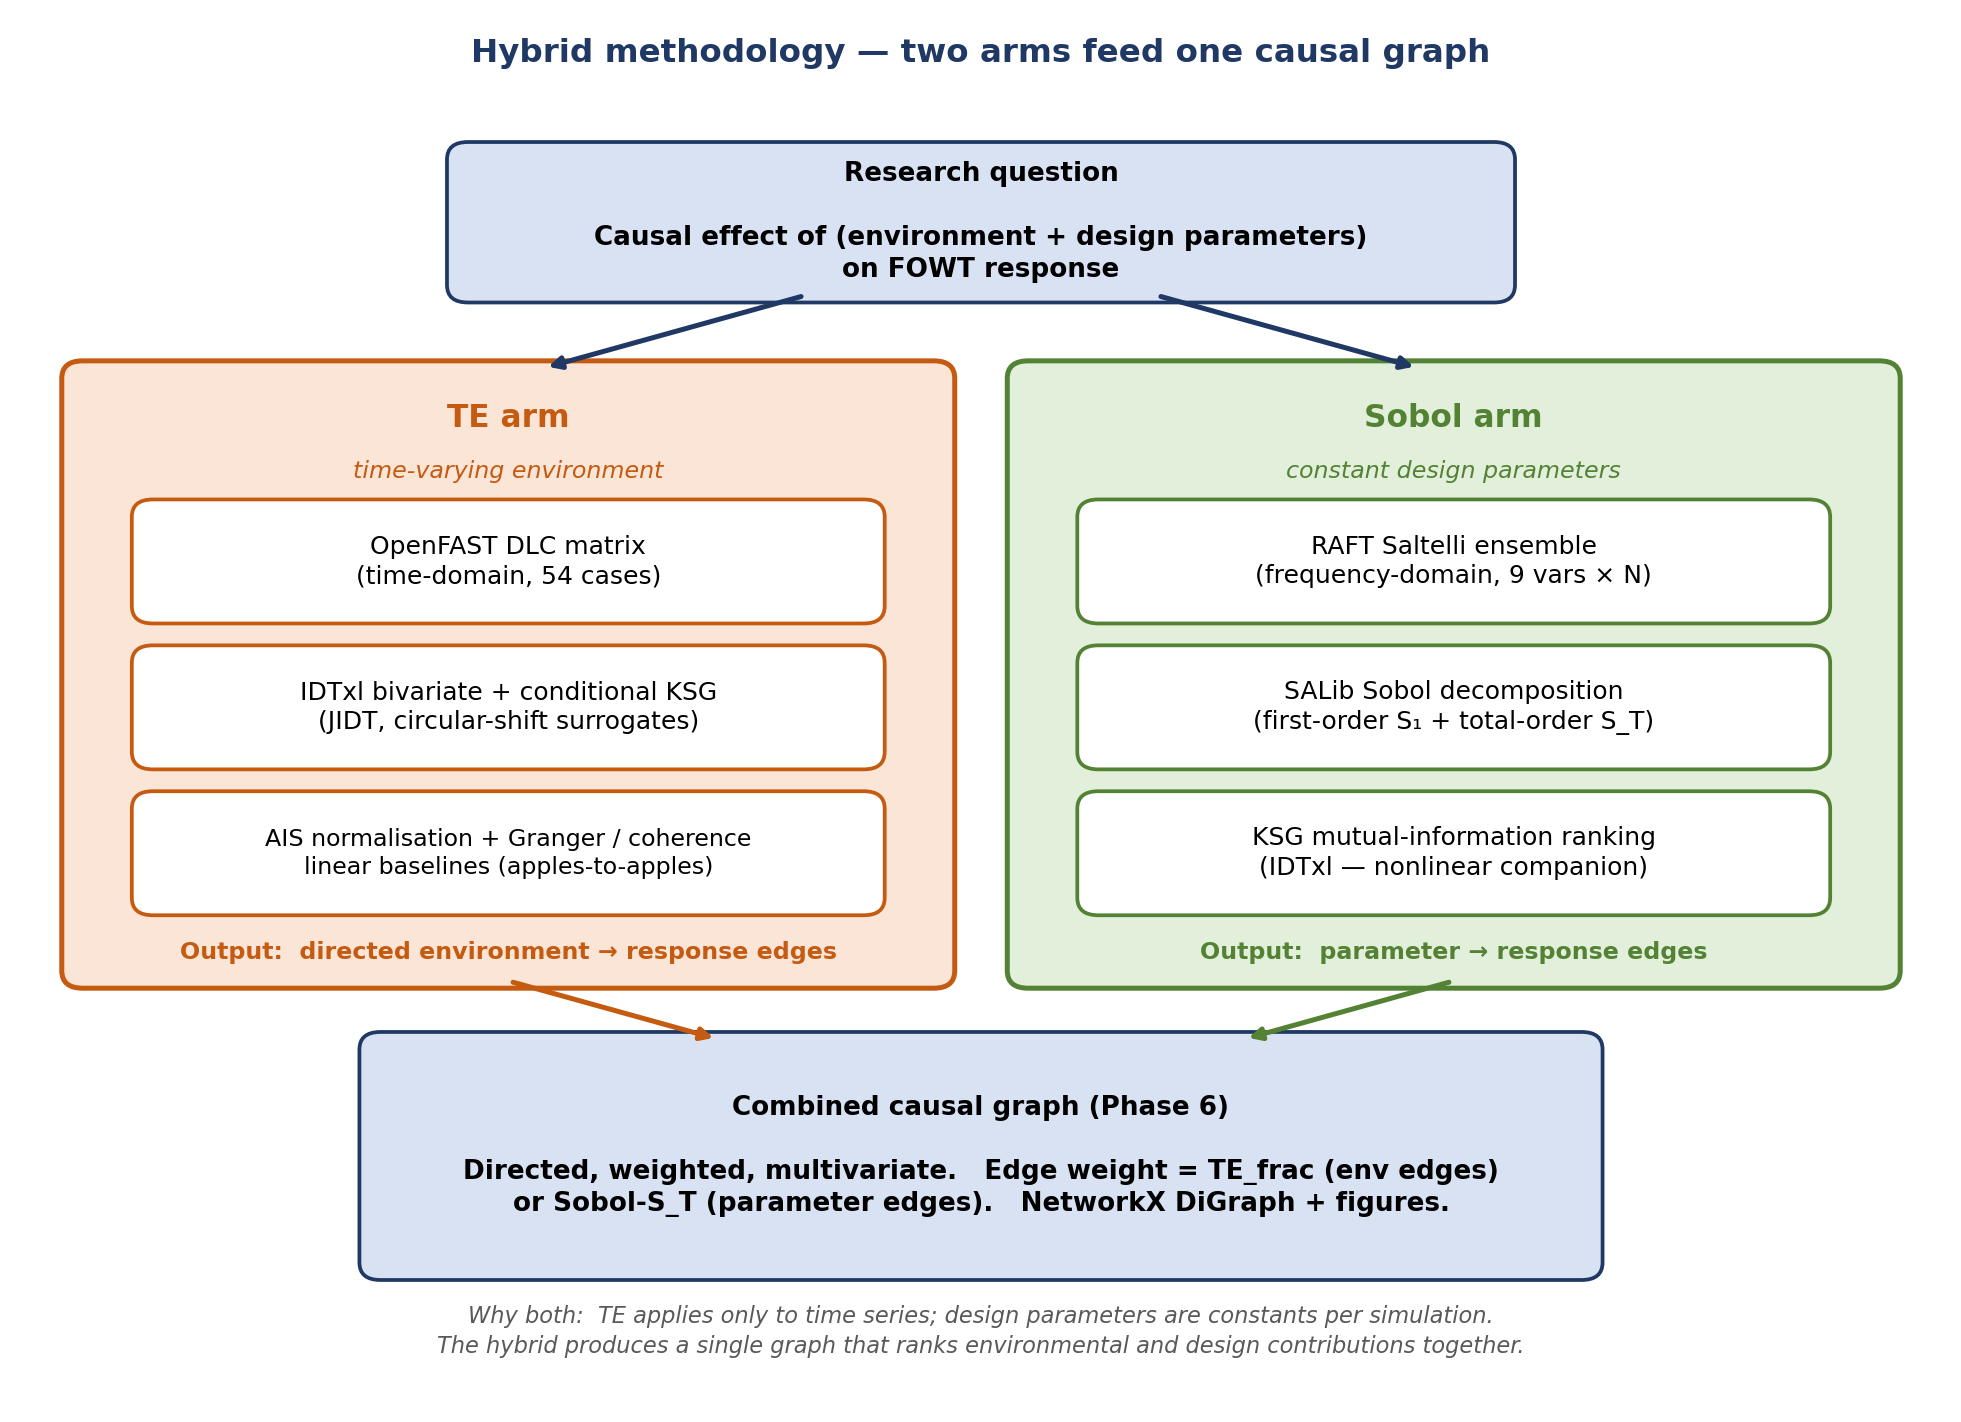
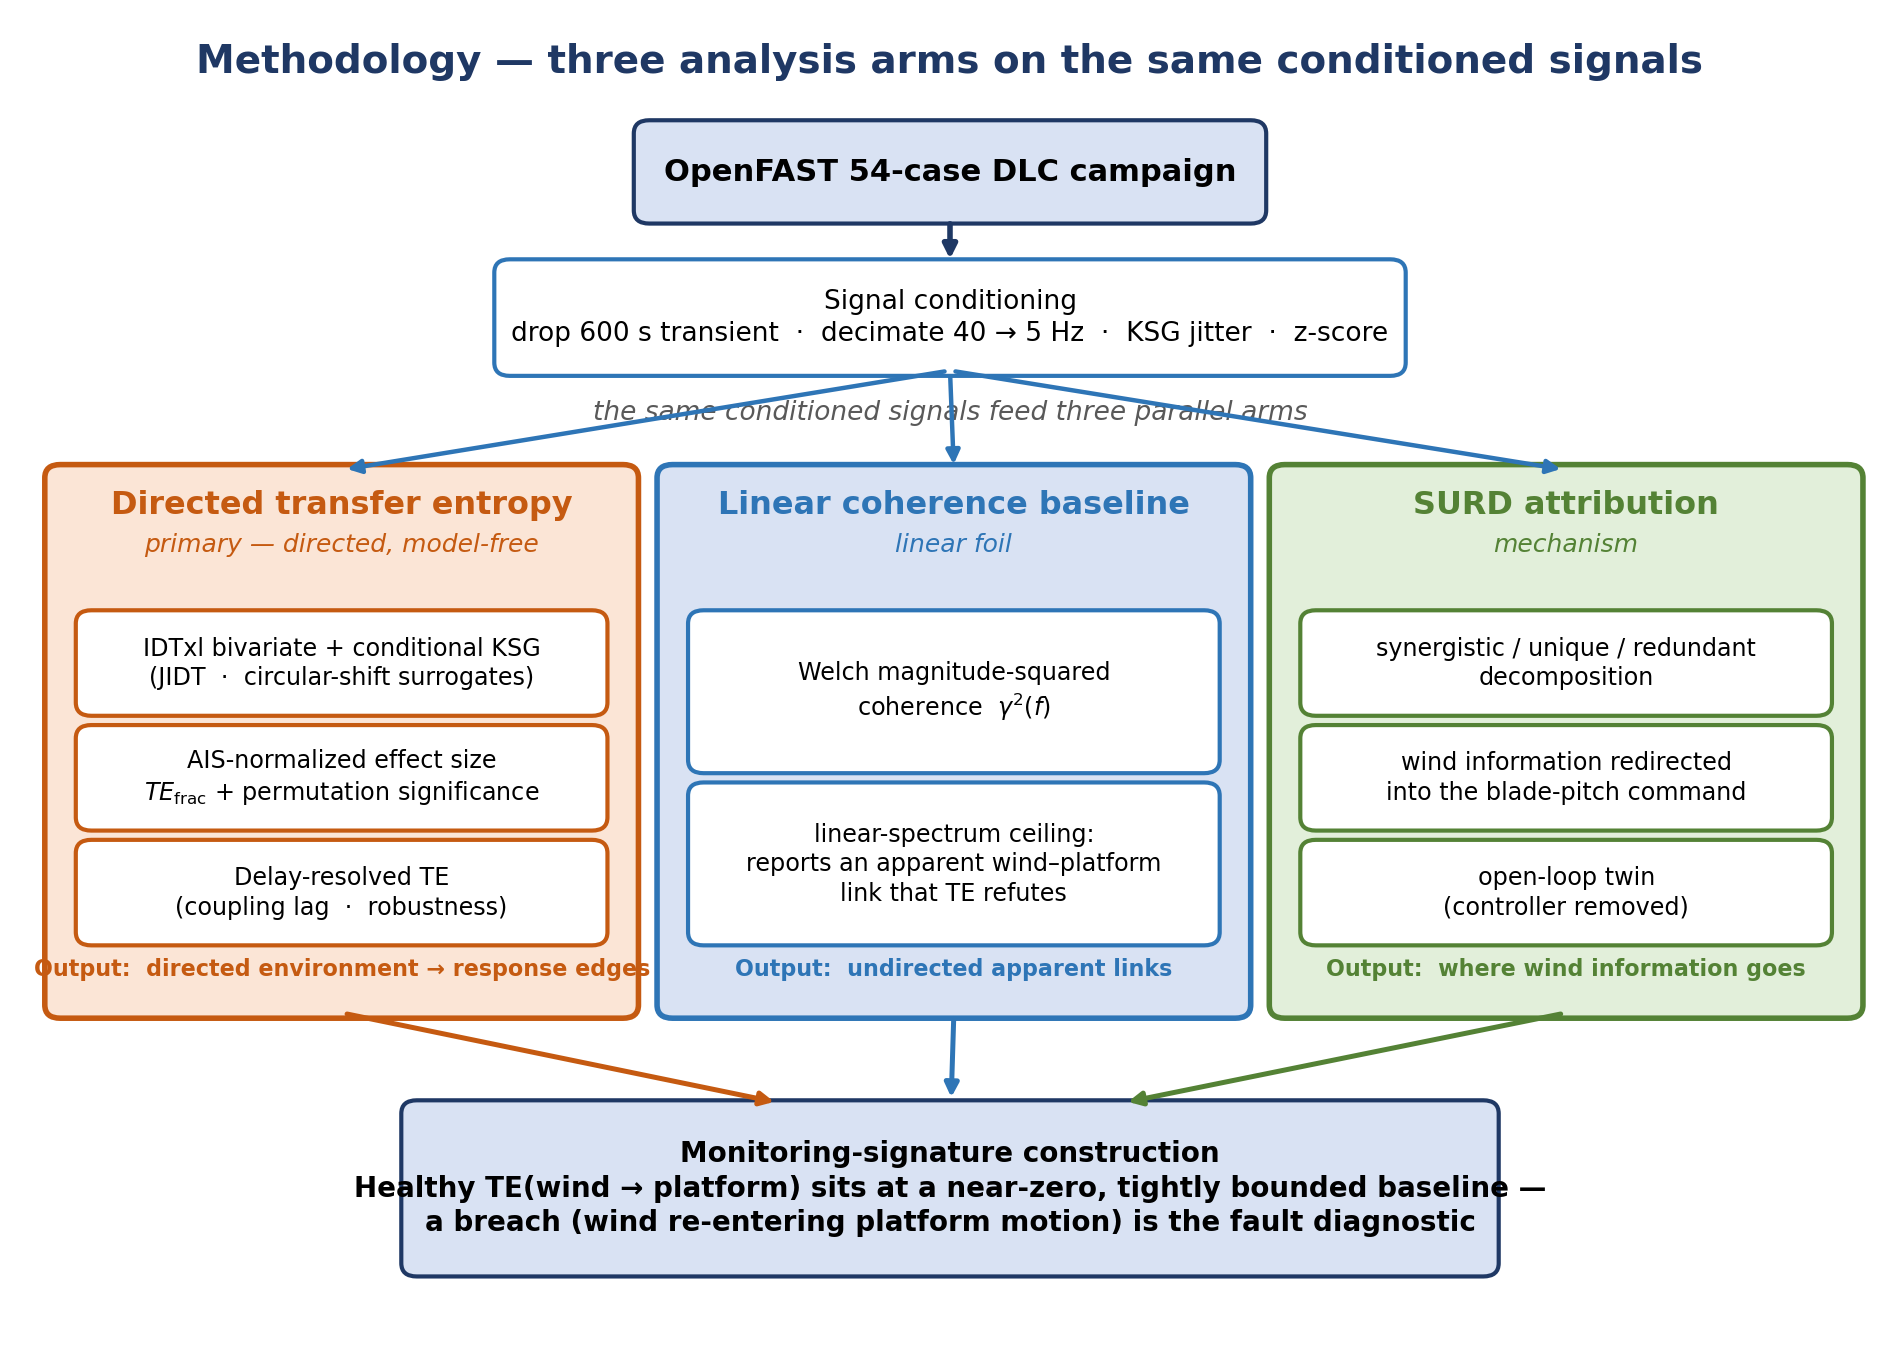
figures: rebuild Figure 1 to match the paper (remove stale Sobol arm)
The old fig1-methodology-arms.png depicted the broader original project's
two-arm "TE arm + Sobol arm -> combined causal graph (Phase 6)" hybrid,
including a RAFT Saltelli design-parameter ensemble that this paper does not
perform (Sobol appears only as a critiqued undirected foil in 1.2). The
caption was already correct; only the image was stale.

New dedicated generator reports/figs/_make_fig1_pipeline.py renders a
schematic matching the caption: OpenFAST 54-case campaign -> signal
conditioning -> three parallel arms (directed transfer entropy [primary],
linear coherence baseline [foil], SURD attribution [mechanism]) ->
monitoring-signature construction. Added a "SUPERSEDED - DO NOT RUN" banner
to the old _make_figures.py so it can't clobber the good fig1/fig2.

Figures 2-3 audited: Figure 2 (case-grid) matches its caption and is fine.
Figure 3 (fig3-te-network) has a caption/image mismatch - it shows only the
wave driver because the generator's >50%-of-cases significance filter drops
every wind edge, erasing the firewall; fix deferred pending a design choice.

docx regenerated with the corrected Figure 1. Session records updated.

diff --git a/reports/figs/_make_fig1_pipeline.py b/reports/figs/_make_fig1_pipeline.py
@@ -1,0 +1,115 @@
+# -*- coding: utf-8 -*-
+"""Generate Figure 1 — the paper's methodology overview.
+
+Replaces the stale `fig1-methodology-arms.png` (which depicted a two-arm
+"TE arm + Sobol arm -> combined causal graph" hybrid from the broader original
+project; this paper performs no Sobol/RAFT design-parameter analysis). This
+figure matches the manuscript caption: three analysis arms — directed transfer
+entropy, a linear coherence baseline, and SURD attribution — operate on the
+same conditioned OpenFAST signals and feed the monitoring-signature construction.
+
+Schematic only (no data). Writes reports/figs/fig1-methodology-arms.png.
+"""
+from pathlib import Path
+import matplotlib.pyplot as plt
+from matplotlib.patches import FancyBboxPatch
+
+OUT = Path(__file__).resolve().parent
+
+BLUE_DARK="#1F3864"; BLUE_MID="#2E75B6"; BLUE_LIGHT="#D9E2F3"
+ORANGE="#C55A11"; ORANGE_LIGHT="#FBE5D6"
+GREEN="#548235"; GREEN_LIGHT="#E2EFDA"
+GRAY="#595959"
+
+
+def box(ax, xy, w, h, text, fc, ec, fontsize=10, fontweight="normal",
+        textcolor="black", lw=1.5):
+    x, y = xy
+    ax.add_patch(FancyBboxPatch((x, y), w, h,
+        boxstyle="round,pad=0.04,rounding_size=0.10",
+        facecolor=fc, edgecolor=ec, linewidth=lw))
+    if text:
+        ax.text(x + w/2, y + h/2, text, ha="center", va="center",
+                fontsize=fontsize, fontweight=fontweight, color=textcolor,
+                linespacing=1.3)
+
+
+def arrow(ax, start, end, color=GRAY, lw=1.8):
+    ax.annotate("", xy=end, xytext=start,
+                arrowprops=dict(arrowstyle="-|>", color=color, lw=lw,
+                                shrinkA=2, shrinkB=2))
+
+
+def make_fig1():
+    fig, ax = plt.subplots(figsize=(12, 8.6))
+    ax.set_xlim(0, 12); ax.set_ylim(0, 10); ax.axis("off")
+
+    ax.text(6.0, 9.6, "Methodology — three analysis arms on the same conditioned signals",
+            ha="center", fontsize=14, fontweight="bold", color=BLUE_DARK)
+
+    # Input + conditioning
+    box(ax, (4.0, 8.5), 4.0, 0.7, "OpenFAST 54-case DLC campaign",
+        fc=BLUE_LIGHT, ec=BLUE_DARK, fontsize=11, fontweight="bold")
+    box(ax, (3.1, 7.35), 5.8, 0.8,
+        "Signal conditioning\ndrop 600 s transient  ·  decimate 40 → 5 Hz  ·  KSG jitter  ·  z-score",
+        fc="white", ec=BLUE_MID, fontsize=9.5)
+    arrow(ax, (6.0, 8.5), (6.0, 8.15), color=BLUE_DARK, lw=2.0)
+    ax.text(6.0, 6.98, "the same conditioned signals feed three parallel arms",
+            ha="center", fontsize=9.5, style="italic", color=GRAY)
+
+    # Three arm panels
+    panels = [
+        dict(x=0.2, fc=ORANGE_LIGHT, ec=ORANGE, title="Directed transfer entropy",
+             sub="primary — directed, model-free",
+             boxes=["IDTxl bivariate + conditional KSG\n(JIDT  ·  circular-shift surrogates)",
+                    "AIS-normalized effect size\n$TE_{\\mathrm{frac}}$ + permutation significance",
+                    "Delay-resolved TE\n(coupling lag  ·  robustness)"],
+             out="directed environment → response edges"),
+        dict(x=4.15, fc=BLUE_LIGHT, ec=BLUE_MID, title="Linear coherence baseline",
+             sub="linear foil",
+             boxes=["Welch magnitude-squared\ncoherence  $\\gamma^2(f)$",
+                    "linear-spectrum ceiling:\nreports an apparent wind–platform\nlink that TE refutes"],
+             out="undirected apparent links"),
+        dict(x=8.1, fc=GREEN_LIGHT, ec=GREEN, title="SURD attribution",
+             sub="mechanism",
+             boxes=["synergistic / unique / redundant\ndecomposition",
+                    "wind information redirected\ninto the blade-pitch command",
+                    "open-loop twin\n(controller removed)"],
+             out="where wind information goes"),
+    ]
+    pw, ptop, pbot = 3.75, 6.6, 2.5
+    for p in panels:
+        x = p["x"]; cx = x + pw/2
+        box(ax, (x, pbot), pw, ptop-pbot, "", fc=p["fc"], ec=p["ec"], lw=2)
+        ax.text(cx, ptop-0.33, p["title"], ha="center", fontsize=11.5,
+                fontweight="bold", color=p["ec"])
+        ax.text(cx, ptop-0.62, p["sub"], ha="center", fontsize=9,
+                style="italic", color=p["ec"])
+        arrow(ax, (6.0, 7.35), (cx, ptop), color=BLUE_MID, lw=1.6)
+        n = len(p["boxes"])
+        # stack sub-boxes between y=5.5 and y=3.05
+        top, bottom = 5.5, 3.05
+        bh = (top - bottom - 0.15*(n-1)) / n
+        for i, t in enumerate(p["boxes"]):
+            by = top - bh - i*(bh+0.15)
+            box(ax, (x+0.2, by), pw-0.4, bh, t, fc="white", ec=p["ec"],
+                fontsize=8.6)
+        ax.text(cx, 2.78, "Output:  " + p["out"], ha="center", fontsize=8.0,
+                fontweight="bold", color=p["ec"])
+        arrow(ax, (cx, pbot), (6.0 + (cx-6.0)*0.28, 1.82), color=p["ec"], lw=1.8)
+
+    # Monitoring signature (convergence)
+    box(ax, (2.5, 0.55), 7.0, 1.25,
+        "Monitoring-signature construction\n"
+        "Healthy TE(wind → platform) sits at a near-zero, tightly bounded baseline —\n"
+        "a breach (wind re-entering platform motion) is the fault diagnostic",
+        fc=BLUE_LIGHT, ec=BLUE_DARK, fontsize=10, fontweight="bold")
+
+    out = OUT / "fig1-methodology-arms.png"
+    fig.savefig(out, dpi=200, bbox_inches="tight", facecolor="white")
+    plt.close(fig)
+    print(f"wrote {out}")
+
+
+if __name__ == "__main__":
+    make_fig1()

diff --git a/reports/figs/_make_figures.py b/reports/figs/_make_figures.py
@@ -1,4 +1,14 @@
-"""Generate the three figures for the technical report (v2 — improved text layout).
+"""[SUPERSEDED — DO NOT RUN for the te-firewall paper.]
+
+WARNING: this script is a leftover from the *broader original project* (the
+two-arm "TE arm + Sobol arm -> combined causal graph" hybrid). Its make_fig1()
+draws a Sobol arm the paper does not use, and its make_fig2()/make_fig3() are
+NOT the images the manuscript embeds. Running it will OVERWRITE the current,
+correct fig1-methodology-arms.png (see reports/figs/_make_fig1_pipeline.py) and
+fig2-dlc-matrix.png (the case-grid) with stale versions. Kept only for archival
+reference. For the paper's figures use the dedicated per-figure scripts.
+
+Generate the three figures for the technical report (v2 — improved text layout).
 
 Produces:
   reports/figs/fig1-methodology-arms.png
@@ -148,7 +158,7 @@ def make_fig2():
 
     # Title
     ax.text(6.5, 8.0,
-            "Phase 2 Design Load Case matrix",
+            "Design Load Case matrix",
             ha="center", fontsize=13.5, fontweight="bold", color=BLUE_DARK)
     ax.text(6.5, 7.6,
             "54 OpenFAST cases × 1 hour simulated time each = 14 GB raw .outb",

diff --git a/pages/log.md b/pages/log.md
@@ -1939,3 +1939,36 @@ the rendered text. The manuscript is now consistently US-spelled. Committed.
 *Judgment note:* `analogue → analog` in "the structural-monitoring analog of control-loop performance
 monitoring" — US usage is split (many US authors keep "analogue" for the "counterpart" sense, reserving
 "analog" for signals); converted per the US directive but trivially reversible if the author prefers.
+
+## [2026-08-09] figures | Figure 1 rebuilt (three-arm pipeline); Figures 2–3 audited
+
+Author flagged that Figure 1 might show a "Sobol arm" absent from the results. Confirmed: the old
+`fig1-methodology-arms.png` (from the superseded `_make_figures.py`) depicted the **broader original
+project** — a "TE arm + **Sobol arm** → combined causal graph (Phase 6)" hybrid with a RAFT Saltelli
+9-variable design-parameter ensemble. **None of that is in this paper** (Sobol appears only as a critiqued
+undirected foil in §1.2). The figure *caption* was already correct; only the image was stale.
+
+**Figure 1 — rebuilt.** New dedicated generator `reports/figs/_make_fig1_pipeline.py` produces a schematic
+matching the caption: OpenFAST 54-case campaign → signal conditioning → three parallel arms (① directed
+transfer entropy [primary]; ② linear coherence baseline [foil]; ③ SURD attribution [mechanism]) →
+monitoring-signature construction. US spelling, palette consistent with Figs 2–3. Rendered at 200 dpi;
+visually verified. The stale `_make_figures.py` got a "SUPERSEDED — DO NOT RUN" banner (running it would
+clobber the good fig1 and the fig2 case-grid).
+
+**Figure 2 — audited, OK.** The on-disk `fig2-dlc-matrix.png` is the clean case-grid (4 speeds × 6 seeds;
+dlca/dlcb/dlc16), which matches its caption (54 = 48 + 6). It is NOT the stale box-diagram that
+`_make_figures.py::make_fig2()` would draw (that one carried H1/H2/H3 hypothesis labels and a Jeon-2025
+reference not cited here). Only nitpick: the figure's title still reads "analysed"/"wave-realisation"
+(British) after the manuscript's US-spelling conversion.
+
+**Figure 3 — audited, DEFECT found (fix pending author decision).** `fig3-te-network.png` shows only the
+**wave** driver fanning to 7 channels, edge weights in **TE_frac %**. But its caption promises a directed
+network where "wave (blue) … wind (red) reaches blade and tower channels but not platform rigid-body
+motion — the firewall," with weights "in nats." Root cause: the generator (`_make_fig3_te_network.py`,
+`build_graph`) keeps only edges significant in **>50% of cases**; from `te_table.parquet`, **no** Wind1VelX
+edge clears 50% (strongest: →RootMxc1 39%, →TwrBsMyt 28%, →RootMyc1 17%; platform edges at the chance
+floor, PtfmPitch 3.7%), so the wind node — and the firewall itself — is filtered out. The figure therefore
+omits the paper's headline finding and contradicts its caption (and the caption's "nats" ≠ the shown %).
+Options put to the author for the fix (data is available locally). Not yet changed.
+
+docx regenerated with the corrected Figure 1 (9 media). Figure 1 committed; Figure 3 fix deferred.

diff --git a/SYNTHESIS.md b/SYNTHESIS.md
@@ -28,6 +28,20 @@ each new Claude session was forgetting what the last one discussed.
 
 ## §0 Current state — read this first (rewritten 2026-08-09)
 
+- **Latest (2026-08-09, session 12): Figure 1 rebuilt to match the paper; Figures 2–3 audited.** Author
+  flagged a possible "Sobol arm" in Figure 1 — confirmed stale: the old `fig1-methodology-arms.png` (from
+  the superseded `reports/figs/_make_figures.py`) drew the broader original project's "TE arm + Sobol arm →
+  Phase-6 combined causal graph" hybrid, which this paper does not do (Sobol is only a critiqued foil in
+  §1.2). **Rebuilt** via new `reports/figs/_make_fig1_pipeline.py`: 3-arm schematic (directed TE [primary] ·
+  linear coherence [foil] · SURD [mechanism] → monitoring-signature), matching the caption; committed.
+  Added a "SUPERSEDED — DO NOT RUN" banner to `_make_figures.py`. **Figure 2 OK** (on-disk case-grid matches
+  caption; not the stale box-diagram; minor British-spelling in its title). **Figure 3 DEFECT (fix pending):**
+  `fig3-te-network.png` shows wave-only edges in TE_frac %, but its caption promises a wind+wave directed
+  network in nats showing the firewall (wind reaches blade/tower, not platform). Cause: the generator's
+  ">50%-of-cases-significant" filter drops every wind edge (none clears 50%; wind→platform sits at the
+  chance floor — which IS the firewall), so the figure erases the headline result. `te_table.parquet` is
+  local, so it is fixable; **options put to the author, not yet changed.**
+
 - **Latest (2026-08-09, session 11): whole manuscript converted to US spelling.** Resolves the
   British/American mix the reverse-sync left. Explicit case-preserving map (not a blanket -ise→-ize, which
   would wrongly hit comprise/revise/precise), **References excluded** (cited titles stay verbatim): **85
